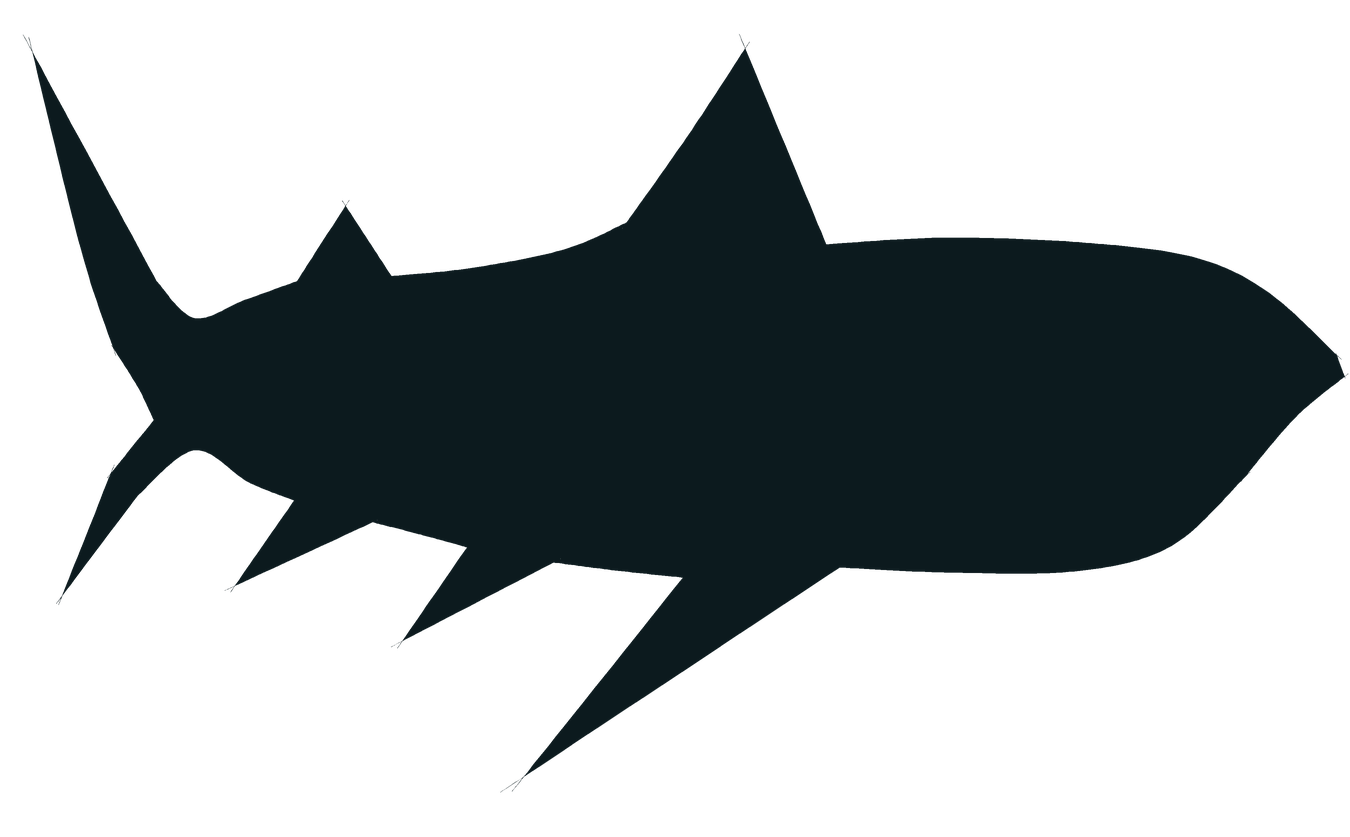
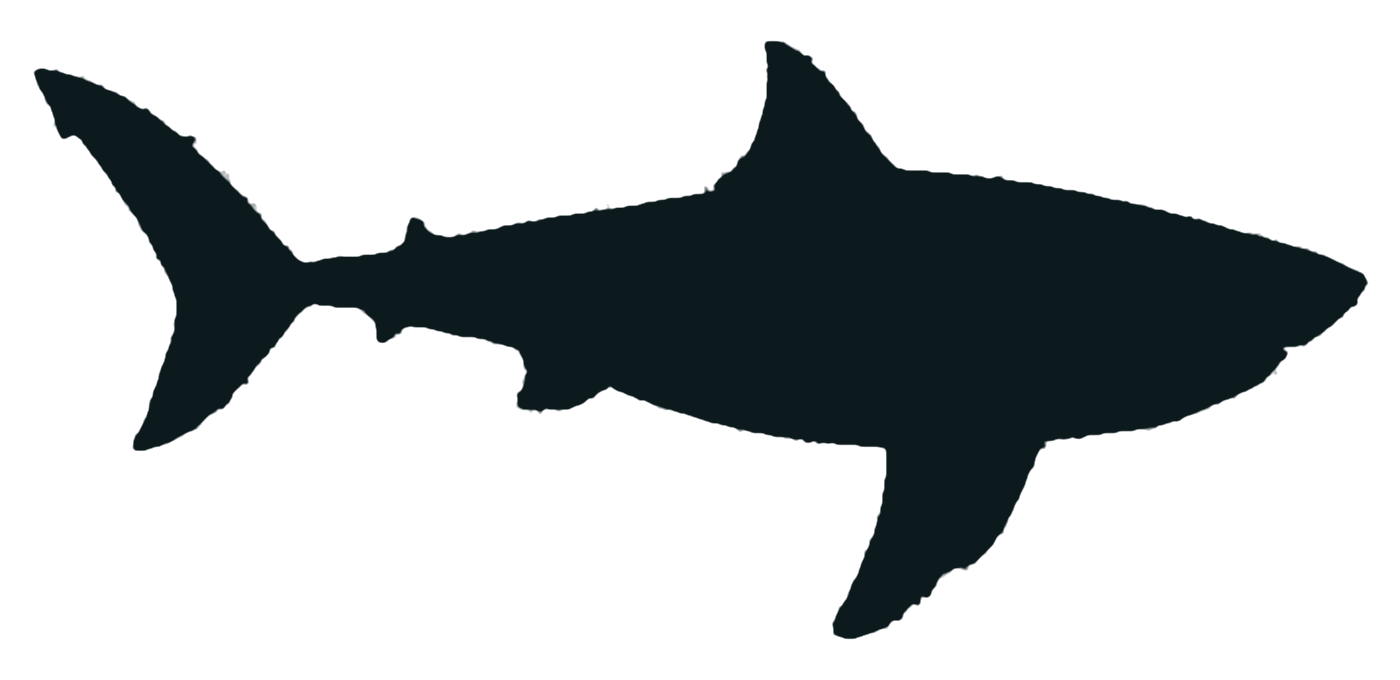
Tubarao: silhueta tirada da prancha de referencia
Desenhar a mao nao bastou. Mesmo com contorno curvo e cabeca curta, a caudal
que eu desenhava era de tubarao-tigre — lobo de cima comprido e fino —
quando a do branco e quase meia-lua, com os dois lobos grandes. E o corpo
continuava fundo ate o meio, quando na verdade ele e mais alto na altura da
peitoral e afina depressa ate um pedunculo fino.

scripts/silhueta_de_prancha.py acha o FUNDO por inundacao a partir da borda
em vez de usar limiar de brilho: o tubarao tem barriga branca, e limiar
comeria a barriga junto com o fundo. O que a inundacao nao alcanca e bicho.
Depois espelha pra orientacao canonica (olhando pra DIREITA) e deixa 7% de
folga em cima e embaixo, pra o warp nao cortar nada no deslocamento.

A prancha e referencia de FORMA e nao entra no repositorio; a silhueta segue
provisoria ate os PNGs CC0 do PhyloPic.

Conferido na cena: reconhecivel na camera, dois quadros a 120 ms mostram o
mesmo bicho inteiro, 60 fps a 1366x768 e nenhum erro de console.

Claude-Session: https://claude.ai/code/session_01QXHGCGQ6qhobPMYduFY7mu

Changed region(s): [[0.0, 0.0618, 0.9956, 0.9574]]

diff --git a/scripts/silhueta_de_prancha.py b/scripts/silhueta_de_prancha.py
@@ -1,0 +1,101 @@
+#!/usr/bin/env python3
+"""Tira a silhueta de uma espécie a partir de uma prancha de referência.
+
+Desenhar o bicho à mão em coordenadas não bastou pro tubarão: mesmo com curva
+e cabeça curta, a caudal que eu desenhava era de tubarão-tigre — lóbulo de
+cima comprido e fino — quando a do branco é quase meia-lua, com os dois
+lóbulos grandes. Contra isso só uma referência.
+
+O fundo é achado por INUNDAÇÃO a partir da borda, não por limiar de brilho: o
+tubarão tem a barriga branca, e limiar simples comeria a barriga junto com o
+fundo. Tudo que a inundação não alcança é bicho, mesmo sendo branco.
+
+A prancha é referência de FORMA. A silhueta segue provisória até os PNGs CC0
+do PhyloPic; as pranchas não entram no repositório.
+
+Uso:
+    python3 scripts/silhueta_de_prancha.py prancha.png tubarao [--nao-espelhar]
+
+Precisa de Pillow — ferramenta de bancada, não dependência do projeto.
+"""
+
+from __future__ import annotations
+
+import argparse
+import collections
+from pathlib import Path
+
+from PIL import Image, ImageFilter
+
+SAIDA = Path(__file__).resolve().parent.parent / 'src' / 'formas' / 'especies'
+COR = (12, 26, 30)
+# Folga vertical: o warp desloca as tiras em y, e bicho encostado na borda
+# seria cortado no deslocamento.
+FOLGA_Y, FOLGA_X = 0.07, 0.02
+
+
+def mascara_do_fundo(im: Image.Image, limiar: int) -> Image.Image:
+    largura, altura = im.size
+    px = im.load()
+    claro = lambda p: p[0] > limiar and p[1] > limiar and p[2] > limiar
+    fundo = bytearray(largura * altura)
+    fila: collections.deque = collections.deque()
+
+    def semear(x: int, y: int) -> None:
+        if claro(px[x, y]) and not fundo[y * largura + x]:
+            fundo[y * largura + x] = 1
+            fila.append((x, y))
+
+    for x in range(largura):
+        semear(x, 0)
+        semear(x, altura - 1)
+    for y in range(altura):
+        semear(0, y)
+        semear(largura - 1, y)
+    while fila:
+        x, y = fila.popleft()
+        for nx, ny in ((x + 1, y), (x - 1, y), (x, y + 1), (x, y - 1)):
+            if 0 <= nx < largura and 0 <= ny < altura:
+                semear(nx, ny)
+
+    m = Image.new('L', (largura, altura))
+    m.putdata([0 if fundo[i] else 255 for i in range(largura * altura)])
+    return m
+
+
+def main() -> None:
+    p = argparse.ArgumentParser()
+    p.add_argument('prancha')
+    p.add_argument('especie')
+    p.add_argument('--largura', type=int, default=1400)
+    p.add_argument('--limiar', type=int, default=244)
+    p.add_argument('--nao-espelhar', action='store_true',
+                   help='a prancha já olha pra DIREITA (orientação canônica)')
+    a = p.parse_args()
+
+    m = mascara_do_fundo(Image.open(a.prancha).convert('RGB'), a.limiar)
+    if not a.nao_espelhar:
+        m = m.transpose(Image.FLIP_LEFT_RIGHT)
+    m = m.crop(m.getbbox())
+
+    mx, my = round(m.width * FOLGA_X), round(m.height * FOLGA_Y)
+    folga = Image.new('L', (m.width + 2 * mx, m.height + 2 * my), 0)
+    folga.paste(m, (mx, my))
+    m = folga
+
+    # Suaviza o serrilhado antes de ampliar; depois aperta a curva do alfa, pra
+    # a borda não virar um halo de três pixels em volta do bicho.
+    m = m.filter(ImageFilter.GaussianBlur(1.1))
+    alto = max(1, round(a.largura * m.height / m.width))
+    m = m.resize((a.largura, alto), Image.LANCZOS)
+    m = m.point(lambda v: 0 if v < 90 else (255 if v > 165 else int((v - 90) * 255 / 75)))
+
+    fora = Image.new('RGBA', (a.largura, alto), COR + (0,))
+    fora.putalpha(m)
+    destino = SAIDA / f'{a.especie}.png'
+    fora.save(destino)
+    print(f'  {a.especie}  {fora.size}  razao {alto / a.largura:.3f}  ->  {destino}')
+
+
+if __name__ == '__main__':
+    main()

diff --git a/README.md b/README.md
@@ -735,9 +735,21 @@ disso: rolagem de ±4°, respiração de ±2% e nadadeiras com seno próprio.
 > Duas regras de desenho valeram mais que a curva:
 > **a cabeça ocupa os últimos ~15% do bicho**, não um terço (enquanto o corpo
 > começava a afunilar no meio, qualquer cabeça virava cone), e **cada espécie
-> tem UM detalhe que a entrega**: no golfinho o vinco entre o melão redondo e
-> o bico curto e rombudo; no tubarão o focinho cônico curto com a boca recuada
-> por baixo e a caudal assimétrica, com o lóbulo de cima bem maior.
+> tem UM detalhe que a entrega** — no golfinho, o vinco entre o melão redondo
+> e o bico curto e rombudo.
+>
+> **O tubarão não saiu à mão.** Mesmo com curva e cabeça curta, ele continuava
+> errado de um jeito que só uma referência resolve: a caudal que eu desenhava
+> era de tubarão-tigre, lóbulo de cima comprido e fino, quando a do branco é
+> quase meia-lua com os dois lóbulos grandes. A professora mandou uma prancha
+> de perfil, e a silhueta vem dela: `scripts/silhueta_de_prancha.py` acha o
+> FUNDO por inundação a partir da borda em vez de usar limiar de brilho — num
+> bicho de barriga branca sobre fundo branco, limiar comeria a barriga — e o
+> que sobra é o bicho, espelhado pra orientação canônica, com 7% de folga em
+> cima e embaixo pra o warp não cortar nada no deslocamento.
+>
+> A prancha é referência de forma, não arte final: a silhueta segue provisória
+> até os PNGs CC0 do PhyloPic, que continuam na lista de pendências.
 
 Três coisas custaram caro e valem estar escritas:
 
